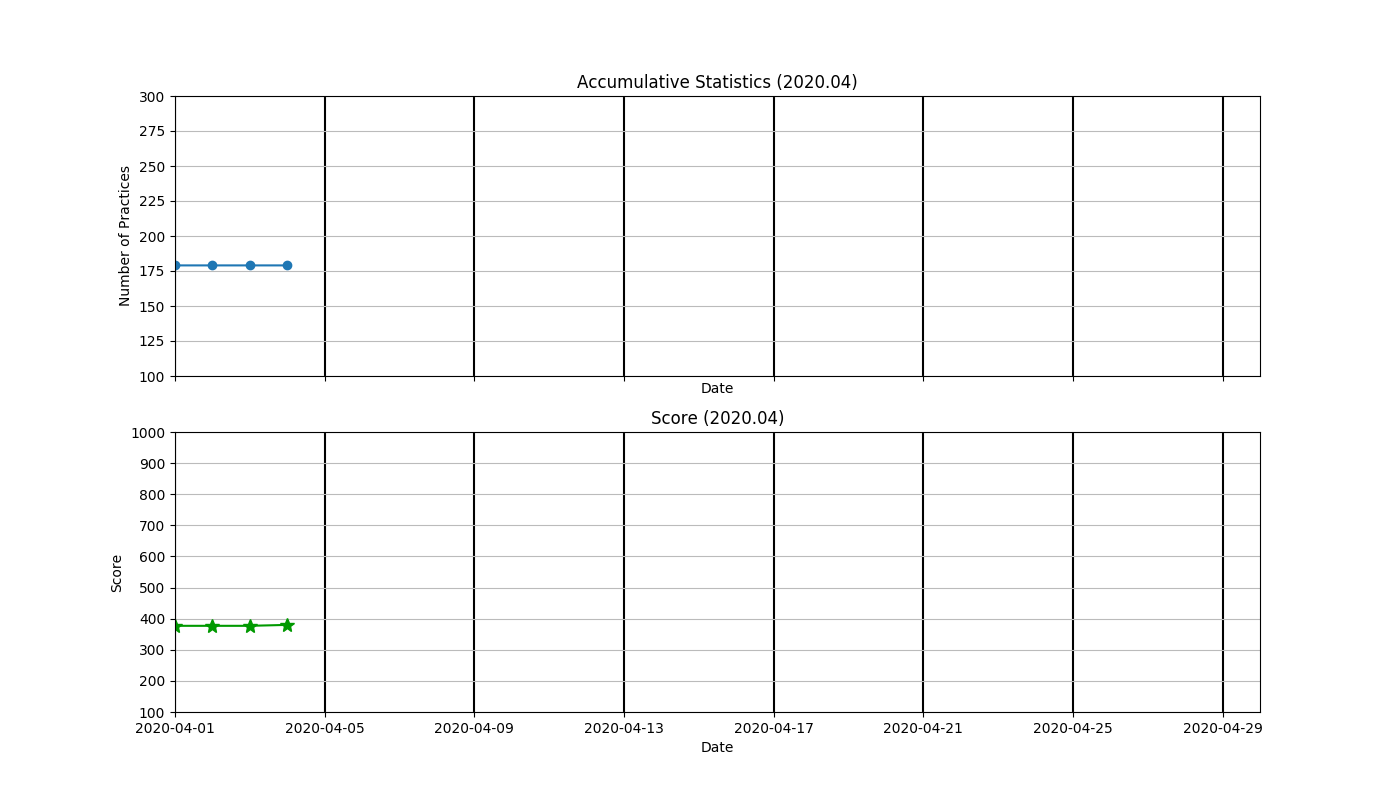
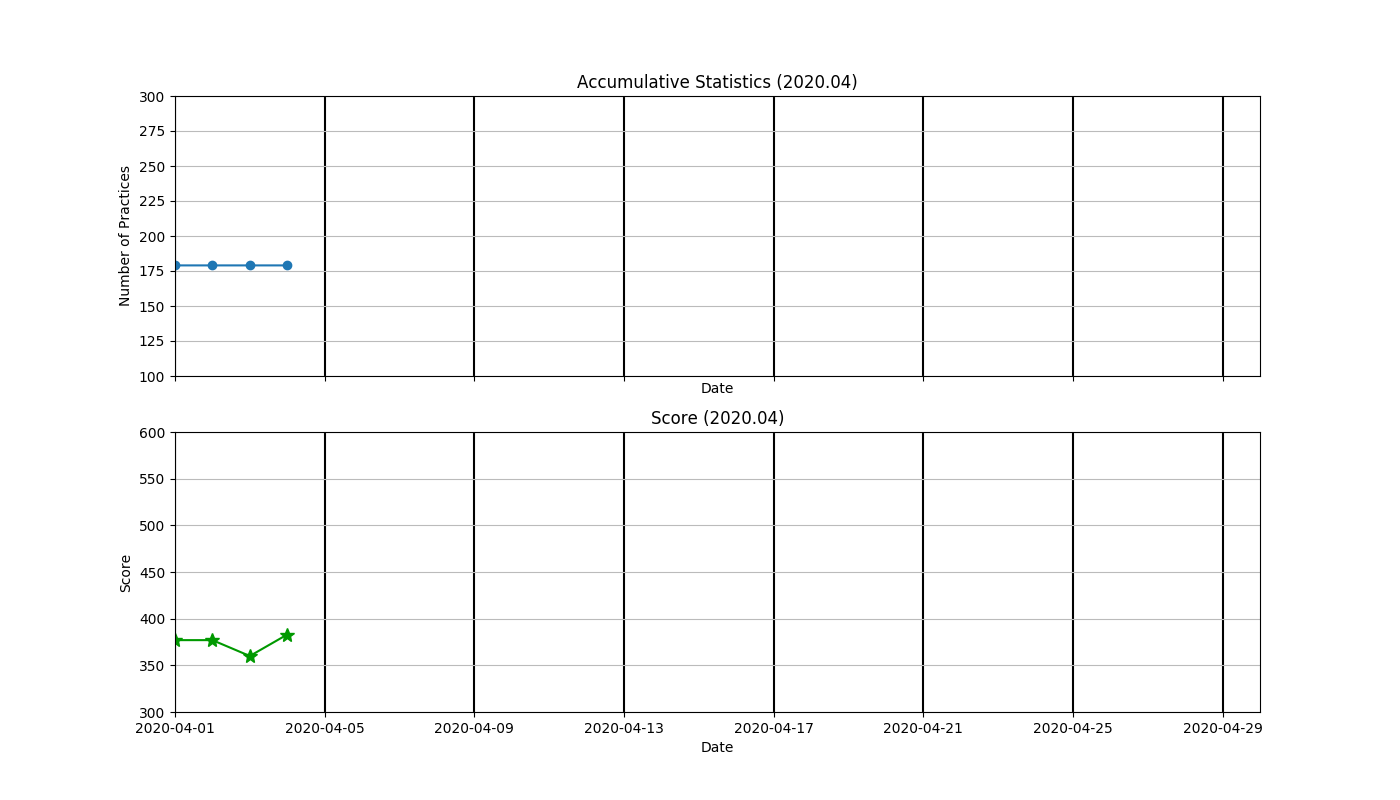
[Visualize] Adjusted the y-axis; Made lcode.py callable in cli

diff --git a/lcode.py b/lcode.py
@@ -1,3 +1,4 @@
+#!/usr/local/bin/python3
 import requests
 from bs4 import BeautifulSoup
 import browsercookie
@@ -24,6 +25,15 @@ def getQuizCount():
     with requests.Session() as s:
         s.cookies.update(requests.utils.cookiejar_from_dict(getCookie(WEBSITE_URL, COOKIE_PATH)))
         r = s.get(API_URL)
+        my_result = json.loads(r.text)
+    my_statistic_data = {key: my_result[key] for key in ['ac_easy', 'ac_medium', 'ac_hard', 'num_solved']}
+
+    return my_statistic_data
+
+def showQuizCount():
+    with requests.Session() as s:
+        s.cookies.update(requests.utils.cookiejar_from_dict(getCookie(WEBSITE_URL, COOKIE_PATH)))
+        r = s.get(API_URL)
         #print("### header:", "\n", r.headers)
         my_result = json.loads(r.text)
     #print('User Name:' , my_result['user_name'])
@@ -39,9 +49,13 @@ def getQuizCount():
             count_medium += 1
         if q['difficulty']['level'] == 3:
             count_hard += 1
-    # print('Solved / Total (Easy)  :' , my_result['ac_easy']   , '/', count_easy)
-    # print('Solved / Total (Medium):' , my_result['ac_medium'] , '/', count_medium)
-    # print('Solved / Total (Hard)  :' , my_result['ac_hard']   , '/', count_hard)
-    # print('Solved / Total (All)   :' , my_result['num_solved'], '/', my_result['num_total'])
+    print('Solved / Total (Easy)  :' , my_result['ac_easy']   , '/', count_easy)
+    print('Solved / Total (Medium):' , my_result['ac_medium'] , '/', count_medium)
+    print('Solved / Total (Hard)  :' , my_result['ac_hard']   , '/', count_hard)
+    print('Solved / Total (All)   :' , my_result['num_solved'], '/', my_result['num_total'])
+    print('Total Score            :' , 5 * my_result['ac_hard'] + 3 * my_result['ac_medium'] + 1 * my_result['ac_easy'] )
     #print(q['stat']['question_id'], q['stat']['question__title'])
-    return my_statistic_data
+    print("=====================================")
+    
+
+showQuizCount()

diff --git a/algodraw.py b/algodraw.py
@@ -130,7 +130,7 @@ def draw(dates, values):
     axs[0].set(xlabel="Date", ylabel="Number of Practices",
         title="Accumulative Statistics (2020.04)")
     axs[0].set_xlim(datetime.datetime(2020,4,1), datetime.datetime(2020,4,30)) 
-    axs[0].set_ylim(100,300) 
+    axs[0].set_ylim(100,300) #number of quiz
     axs[0].grid(which='major', color='k', axis ='x', linestyle='-', linewidth=1.5)
     axs[0].grid(which='minor', color='#bbbbbb', axis ='x', linestyle=':', linewidth=1)
     axs[0].grid(which='major', color='#bbbbbb', axis ='y')
@@ -139,7 +139,7 @@ def draw(dates, values):
     axs[1].set(xlabel="Date", ylabel="Score",
         title="Score (2020.04)")
     #ax2.set_xlim(datetime.datetime(2020,4,1), datetime.datetime(2020,4,30)) 
-    axs[1].set_ylim(100,1000)
+    axs[1].set_ylim(300,600) #score of quiz
     axs[1].grid(which='major', color='k', axis ='x', linestyle='-', linewidth=1.5)
     axs[1].grid(which='minor', color='#bbbbbb', axis ='x', linestyle=':', linewidth=1)
     axs[1].grid(which='major', color='#bbbbbb', axis ='y')
@@ -148,7 +148,7 @@ def draw(dates, values):
     #axs[1].annotate("Test", xy=(0.2, 0.2))
 
     plt.savefig(FILE_IMAGE_SCORE202004)
-    # plt.show()
+    #plt.show()
 
 ###################### 
 ### Read from file  
